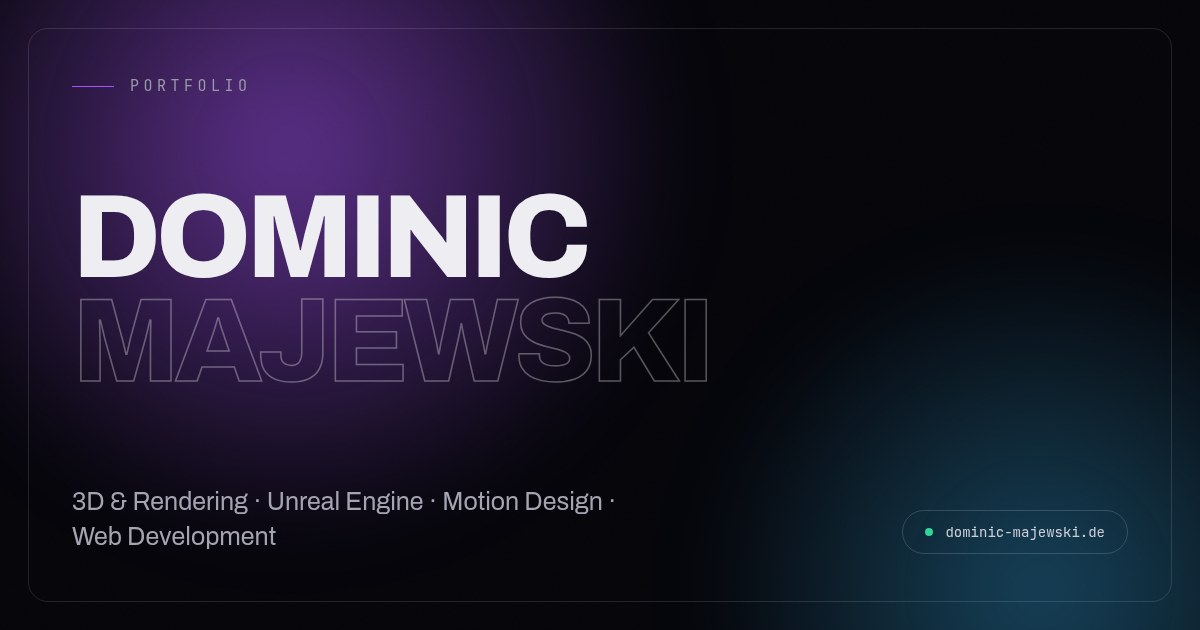
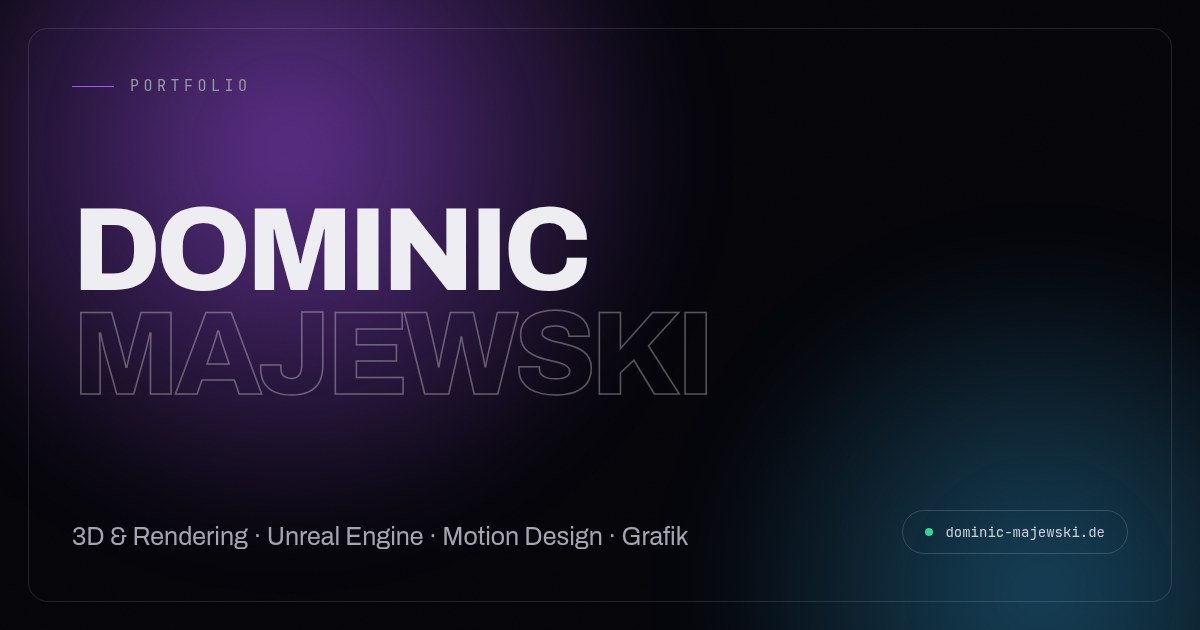
Portfolio: Farbschema im Dashboard wählbar, Status-Feld abschaltbar
Farbschema
- Neue Einstellung "Darstellung": hell, dunkel oder wie das Gerät.
- Das Backend schreibt die Vorgabe als uploads/theme.js; der Seitenkopf lädt
  sie blockierend, damit schon der erste Bildaufbau stimmt und nichts
  aufblitzt. Eine eigene Wahl der Besucher hat weiterhin Vorrang.
- Neue Vorgabe ist hell.

Status-Feld
- Lässt sich vollständig abschalten und ist standardmäßig aus; die Felder für
  Farbe und Text erscheinen nur, wenn es eingeschaltet ist.
- Beim Ausschalten verschwindet auch die Beschriftung drumherum, statt einen
  leeren Rahmen zu hinterlassen.

Texte
- Voreinstellungen und statische Platzhalter nennen keine Webentwicklung mehr;
  Untertitel ist "3D Artist · Motion Designer", der vierte Fähigkeitsbereich
  heißt jetzt "Grafik & Layout".
- Vorschaubild für geteilte Links entsprechend neu erzeugt.

Claude-Session: https://claude.ai/code/session_0111d8iA7TEnnKf8bmt52ttB

Changed region(s): [[0.0617, 0.3016, 0.5858, 0.6333], [0.0617, 0.7841, 0.5858, 0.8746]]

diff --git a/portfolio/admin/src/pages/Settings.tsx b/portfolio/admin/src/pages/Settings.tsx
@@ -104,38 +104,87 @@ export default function SettingsPage() {
           </section>
 
           <section className="panel space-y-4 p-6">
-            <h2 className="text-sm font-semibold">Verfügbarkeit</h2>
-            <p className="text-[0.6875rem] text-faint">Das kleine Statusfeld oben auf der Startseite.</p>
+            <h2 className="text-sm font-semibold">Darstellung</h2>
+            <p className="text-[0.6875rem] leading-relaxed text-faint">
+              Gilt für Besucher, die zum ersten Mal kommen. Wer selbst umschaltet, behält seine Wahl.
+            </p>
 
-            <div className="grid gap-4 sm:grid-cols-3">
-              <div>
-                <label className="label">Status</label>
-                <select
-                  className="field"
-                  value={settings.availability.status}
-                  onChange={(event) =>
-                    set('availability', {
-                      ...settings.availability,
-                      status: event.target.value as Settings['availability']['status'],
-                    })
-                  }
+            <div className="grid gap-2 sm:grid-cols-3">
+              {(
+                [
+                  ['light', 'Hell', 'Immer im hellen Design starten'],
+                  ['dark', 'Dunkel', 'Immer im dunklen Design starten'],
+                  ['system', 'Wie das Gerät', 'Folgt der Systemeinstellung'],
+                ] as const
+              ).map(([value, label, hint]) => (
+                <button
+                  key={value}
+                  type="button"
+                  onClick={() => set('appearance', { ...settings.appearance, defaultTheme: value })}
+                  className={`rounded-lg border p-3 text-left transition-colors ${
+                    settings.appearance.defaultTheme === value
+                      ? 'border-accent bg-accent/10'
+                      : 'border-line hover:border-line-strong'
+                  }`}
                 >
-                  <option value="open">Offen (grün)</option>
-                  <option value="limited">Begrenzt (gelb)</option>
-                  <option value="closed">Ausgebucht (rot)</option>
-                </select>
-              </div>
-              <Field
-                label="Beschriftung"
-                value={settings.availability.label}
-                onChange={(value) => set('availability', { ...settings.availability, label: value })}
-              />
-              <Field
-                label="Zusatz"
-                value={settings.availability.detail}
-                onChange={(value) => set('availability', { ...settings.availability, detail: value })}
-              />
+                  <span className="block text-sm">{label}</span>
+                  <span className="mt-0.5 block text-[0.6875rem] leading-relaxed text-faint">{hint}</span>
+                </button>
+              ))}
             </div>
+          </section>
+
+          <section className="panel space-y-4 p-6">
+            <h2 className="text-sm font-semibold">Status-Feld</h2>
+
+            <label className="flex cursor-pointer items-start gap-3 text-sm">
+              <input
+                type="checkbox"
+                checked={settings.availability.visible}
+                onChange={(event) =>
+                  set('availability', { ...settings.availability, visible: event.target.checked })
+                }
+                className="mt-1 accent-[var(--accent)]"
+              />
+              <span>
+                Status auf der Website anzeigen
+                <span className="mt-0.5 block text-[0.6875rem] leading-relaxed text-faint">
+                  Das kleine Feld mit dem farbigen Punkt über deinem Namen. Aus = erscheint nirgends.
+                </span>
+              </span>
+            </label>
+
+            {settings.availability.visible && (
+              <div className="grid gap-4 sm:grid-cols-3">
+                <div>
+                  <label className="label">Farbe</label>
+                  <select
+                    className="field"
+                    value={settings.availability.status}
+                    onChange={(event) =>
+                      set('availability', {
+                        ...settings.availability,
+                        status: event.target.value as Settings['availability']['status'],
+                      })
+                    }
+                  >
+                    <option value="open">Grün</option>
+                    <option value="limited">Gelb</option>
+                    <option value="closed">Rot</option>
+                  </select>
+                </div>
+                <Field
+                  label="Beschriftung"
+                  value={settings.availability.label}
+                  onChange={(value) => set('availability', { ...settings.availability, label: value })}
+                />
+                <Field
+                  label="Zusatz (optional)"
+                  value={settings.availability.detail}
+                  onChange={(value) => set('availability', { ...settings.availability, detail: value })}
+                />
+              </div>
+            )}
           </section>
 
           <section className="panel space-y-4 p-6">

diff --git a/portfolio/web/src/scripts/hydrate.ts b/portfolio/web/src/scripts/hydrate.ts
@@ -36,6 +36,17 @@ function renderParagraphs(container: HTMLElement, text: string): void {
 }
 
 function fillAvailability(settings: Settings): void {
+  // Abgeschaltet: Badge samt Beschriftung restlos entfernen, damit kein
+  // leerer Rahmen stehen bleibt.
+  if (settings.availability.visible === false) {
+    document.querySelectorAll('[data-availability], [data-availability-detail]').forEach((element) => {
+      element.closest('[data-availability-block]')?.remove();
+      element.remove();
+    });
+
+    return;
+  }
+
   const color = statusColors[settings.availability.status] ?? statusColors.open!;
   const pulse = settings.availability.status === 'open';
 

diff --git a/portfolio/web/src/lib/types.ts b/portfolio/web/src/lib/types.ts
@@ -78,7 +78,14 @@ export interface Settings {
   location: string;
   tagline: string;
   intro: string;
-  availability: { status: 'open' | 'limited' | 'closed'; label: string; detail: string };
+  appearance: { defaultTheme: 'light' | 'dark' | 'system' };
+  availability: {
+    /** Aus = das Status-Feld erscheint nirgends auf der Seite. */
+    visible: boolean;
+    status: 'open' | 'limited' | 'closed';
+    label: string;
+    detail: string;
+  };
   email: string;
   phone: string;
   socials: ProjectLink[];

diff --git a/portfolio/admin/src/lib/api.ts b/portfolio/admin/src/lib/api.ts
@@ -85,7 +85,8 @@ export interface Settings {
   location: string;
   tagline: string;
   intro: string;
-  availability: { status: 'open' | 'limited' | 'closed'; label: string; detail: string };
+  appearance: { defaultTheme: 'light' | 'dark' | 'system' };
+  availability: { visible: boolean; status: 'open' | 'limited' | 'closed'; label: string; detail: string };
   email: string;
   phone: string;
   socials: Array<{ label: string; url: string }>;

diff --git a/portfolio/api/src/Settings.php b/portfolio/api/src/Settings.php
@@ -13,7 +13,7 @@ namespace App;
  */
 final class Settings
 {
-    public function __construct(private Database $db) {}
+    public function __construct(private Database $db, private array $config = []) {}
 
     public function all(): array
     {
@@ -52,7 +52,57 @@ final class Settings
             );
         }
 
-        return $this->all();
+        $all = $this->all();
+        $this->writeAppearanceFile($all);
+
+        return $all;
+    }
+
+    /**
+     * Schreibt die Anzeige-Vorgaben als winzige JavaScript-Datei.
+     *
+     * Grund: Das gewünschte Farbschema muss feststehen, *bevor* der Browser
+     * das erste Pixel zeichnet – sonst blitzt kurz das falsche Design auf.
+     * Ein API-Aufruf wäre dafür zu spät, also legt das Backend die Vorgabe
+     * als statische Datei ab, die der Seitenkopf direkt lädt.
+     *
+     * Sie liegt bewusst in `uploads/`: Der Ordner ist beschreibbar und wird
+     * bei einem erneuten Upload nicht überschrieben.
+     */
+    public function writeAppearanceFile(?array $settings = null): bool
+    {
+        $path = $this->config['uploads_path'] ?? null;
+        if ($path === null) {
+            return false;
+        }
+
+        $settings ??= $this->all();
+        $appearance = $settings['appearance'] ?? [];
+        $theme = in_array($appearance['defaultTheme'] ?? 'system', ['light', 'dark', 'system'], true)
+            ? $appearance['defaultTheme']
+            : 'system';
+        $cursor = ($settings['features']['cursor'] ?? true) === true;
+
+        // Bei "system" entscheidet die Einstellung des Betriebssystems,
+        // sonst gilt die feste Vorgabe. Eine eigene Wahl des Besuchers
+        // (localStorage) hat in beiden Fällen Vorrang.
+        $fallback = $theme === 'system'
+            ? "(matchMedia('(prefers-color-scheme: light)').matches?'light':'dark')"
+            : "'" . $theme . "'";
+
+        $js = "/* Automatisch erzeugt – Änderungen im Dashboard überschreiben diese Datei. */\n"
+            . "(function(){var r=document.documentElement;try{"
+            . "r.dataset.theme=localStorage.getItem('dm-theme')||{$fallback};"
+            . ($cursor
+                ? "if(localStorage.getItem('dm-cursor')!=='off'&&matchMedia('(pointer:fine)').matches){r.dataset.cursor='custom';}else{delete r.dataset.cursor;}"
+                : "delete r.dataset.cursor;")
+            . "}catch(e){r.dataset.theme={$fallback};}})();\n";
+
+        if (!is_dir($path) && !@mkdir($path, 0775, true) && !is_dir($path)) {
+            return false;
+        }
+
+        return @file_put_contents($path . '/theme.js', $js) !== false;
     }
 
     /** Struktur und Startwerte – gleichzeitig die Whitelist beim Speichern. */
@@ -60,14 +110,24 @@ final class Settings
     {
         return [
             'name' => 'Dominic Majewski',
-            'role' => '3D Artist · Motion Designer · Web Developer',
+            'role' => '3D Artist · Motion Designer',
             'location' => 'Deutschland · remote weltweit',
             'tagline' => 'Ich baue digitale Welten, die man nicht mehr wegklicken will.',
-            'intro' => "Hi, ich bin Dominic. Seit Jahren bewege ich mich zwischen Blender-Viewport, Unreal-Engine-Sequencer, Schnittprogramm und Code-Editor – und genau in dieser Mischung entsteht meine Arbeit: fotoreale Renderings, cinematische Bewegtbilder und Websites, die sich schnell und handgemacht anfühlen.\n\nMich interessiert dabei weniger der Effekt an sich als die Frage dahinter: Was soll jemand fühlen, wenn er das hier sieht? Von dort aus baue ich rückwärts – Licht, Rhythmus, Timing, Typo.",
+            'intro' => "Hi, ich bin Dominic. Seit Jahren bewege ich mich zwischen Blender-Viewport, Unreal-Engine-Sequencer und Schnittfenster – und genau in dieser Mischung entsteht meine Arbeit: fotoreale Renderings, begehbare Echtzeit-Welten und cinematische Bewegtbilder.\n\nMich interessiert dabei weniger der Effekt an sich als die Frage dahinter: Was soll jemand fühlen, wenn er das hier sieht? Von dort aus baue ich rückwärts – Licht, Rhythmus, Timing, Typo.",
+
+            // Anzeige-Vorgaben für neue Besucher. Wer selbst umschaltet,
+            // behält seine Wahl – diese Werte gelten nur beim ersten Besuch.
+            'appearance' => [
+                'defaultTheme' => 'light',
+            ],
+
+            // Das Status-Feld ist standardmäßig aus. Wer es einschaltet,
+            // formuliert selbst, was dort steht.
             'availability' => [
+                'visible' => false,
                 'status' => 'open',
-                'label' => 'Offen für neue Projekte',
-                'detail' => 'Nächster freier Slot ab sofort',
+                'label' => 'Offen für gemeinsame Projekte',
+                'detail' => '',
             ],
             'email' => 'hello.dominicmajewski@gmail.com',
             'phone' => '',
@@ -94,9 +154,9 @@ final class Settings
                     'items' => ['After Effects', 'Premiere Pro', 'DaVinci Resolve', 'Grading', 'Sound-Design'],
                 ],
                 [
-                    'title' => 'Web & Code',
-                    'description' => 'Handgeschriebene, schnelle Websites – ohne Baukasten-Ballast, dafür mit sauberem Code.',
-                    'items' => ['Astro', 'TypeScript', 'Tailwind', 'GSAP', 'PHP'],
+                    'title' => 'Grafik & Layout',
+                    'description' => 'Ganzheitliches Branding, kompromisslose Typografie und präzise Raster – digital wie gedruckt.',
+                    'items' => ['Branding', 'Typografie', 'Layout', 'Print', 'Social Assets'],
                 ],
             ],
             'process' => [
@@ -106,9 +166,9 @@ final class Settings
                 ['title' => 'Feinschliff', 'description' => 'Grading, Sound, Performance, Details. Der Teil, der den Unterschied macht.'],
             ],
             'seo' => [
-                'title' => 'Dominic Majewski – 3D, Motion Design & Web Development',
-                'description' => 'Portfolio von Dominic Majewski: fotorealistische 3D-Renderings in Blender, Echtzeit-Szenen in Unreal Engine 5, cinematischer Schnitt und handgeschriebene Websites.',
-                'keywords' => '3D Artist, Blender, Unreal Engine, Motion Design, Videoschnitt, Webentwicklung, Portfolio',
+                'title' => 'Dominic Majewski – 3D, Realtime & Motion Design',
+                'description' => 'Portfolio von Dominic Majewski: fotorealistische 3D-Renderings in Blender, Echtzeit-Szenen in Unreal Engine 5 und cinematischer Schnitt.',
+                'keywords' => '3D Artist, Blender, Unreal Engine, Motion Design, Videoschnitt, Portfolio',
             ],
             'legal' => [
                 'company' => 'Dominic Majewski',

diff --git a/portfolio/api/scripts/bootstrap.php b/portfolio/api/scripts/bootstrap.php
@@ -66,11 +66,14 @@ function portfolio_setup(string $email, string $password, bool $withDemo = false
         $log[] = '• Zugang ' . $email . ' existiert bereits – unverändert gelassen (--force setzt das Passwort neu)';
     }
 
-    $settings = new Settings($db);
+    $settings = new Settings($db, $config);
     if ($db->value('SELECT COUNT(*) FROM settings') === 0) {
         $settings->save(Settings::defaults());
         $log[] = '✓ Grundeinstellungen und Profiltexte eingespielt';
     }
+
+    // Legt uploads/theme.js an – die Farbschema-Vorgabe für neue Besucher.
+    $settings->writeAppearanceFile();
 
     foreach ([$config['uploads_path'], $config['uploads_path'] . '/' . gmdate('Y/m')] as $dir) {
         if (!is_dir($dir)) {

diff --git a/portfolio/api/index.php b/portfolio/api/index.php
@@ -62,7 +62,7 @@ $auth = new Auth($db, $security, $config);
 $projects = new Projects($db, $config);
 $media = new Media($db, $config);
 $messages = new Messages($db, $security, $config);
-$settings = new Settings($db);
+$settings = new Settings($db, $config);
 $analytics = new Analytics($db, $security);
 $testimonials = new Testimonials($db, $config);
 $pages = new Pages($projects, $settings, $analytics, $config);

diff --git a/portfolio/README.md b/portfolio/README.md
@@ -65,7 +65,11 @@ Veröffentlichen: **[DEPLOY-ALL-INKL.md](DEPLOY-ALL-INKL.md)**
 - **Case-Studies** mit Markdown-Text, Kennzahlen, Bildstrecke,
   Vorher/Nachher-Vergleich und drehbarem 3D-Modell (GLB)
 - **Command-Palette** (⌘K / Strg+K) über Seiten, Projekte und Aktionen
-- **Hell/Dunkel-Umschalter**, dezente Interface-Sounds (standardmäßig aus)
+- **Hell/Dunkel-Umschalter** – welches Design neue Besucher zuerst sehen,
+  legst du im Dashboard fest (Einstellungen → Profil → Darstellung). Die
+  Vorgabe landet als `uploads/theme.js` auf dem Server und wird noch vor dem
+  ersten Bildaufbau geladen, damit nichts aufblitzt.
+- Dezente Interface-Sounds (standardmäßig aus)
 - **Osterei**: Konami-Code oder das Wort „render" tippen
 - **Rücksichtsvoll**: respektiert `prefers-reduced-motion`, funktioniert mit
   Tastatur, Schwergewichte (three.js, Markdown-Parser) werden nur bei Bedarf geladen
